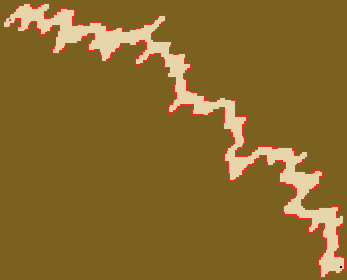
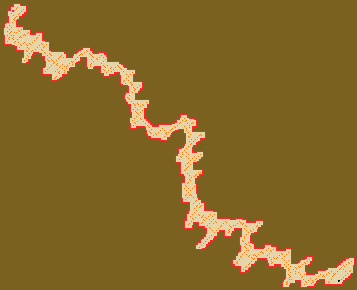
feat: add mob packs to the grid

Changed region(s): [[0.0, 0.0, 1.0, 1.0]]

diff --git a/src/area_gen/mod.rs b/src/area_gen/mod.rs
@@ -6,11 +6,14 @@ use rand_chacha::ChaCha8Rng;
 // Image creation
 use image::ImageBuffer;
 
+use self::maps::MobPack;
+
 mod maps;
 
 type Grid = Vec<Vec<Tile>>;
 
 const TILE_SIZE: i32 = 60;
+// const MOB_SIZE: i32 = 20;
 
 pub struct AreaGenerationOutput {
     pub width: u32,
@@ -19,12 +22,17 @@ pub struct AreaGenerationOutput {
     pub walkable_y: Vec<u32>,
     pub oob_polygons: Vec<Shape>, // bool is true when outer oob shape, false when inner
     pub player_spawn_position: (i32, i32),
+    // pub ennemies: Vec<enemy>,
 }
 
 pub struct Shape {
     pub points: Vec<(f32, f32)>,
     pub inner_if_true: bool,
 }
+
+// pub struct Enemy {
+//     pub point: (f32, f32),
+// }
 
 pub fn generate_area(map_index: usize) -> AreaGenerationOutput {
     // Create random generator from seed
@@ -38,18 +46,11 @@ pub fn generate_area(map_index: usize) -> AreaGenerationOutput {
     //               Generate maps                          //
     //------------------------------------------------------//
 
-    //------------------------------------------------------//
-    //               Add mobs                               //
-    //------------------------------------------------------//
-
-    //  Store all rectange centers
-    // depending on a tile rectangle size threshold , place x mob pack on the rectangle.
-
     // Pick a map
     let map = maps.remove(map_index);
     let map_name = map.name.clone();
     // Generate map grid
-    let (mut grid, player_spawn_position) = generate_map(seed, map);
+    let (mut grid, player_spawn_position, nb_packs) = generate_map(seed, map);
 
     //------------------------------------------------------//
     //               Find oob polygons                      //
@@ -70,11 +71,12 @@ pub fn generate_area(map_index: usize) -> AreaGenerationOutput {
         }
     }
     println!(
-        "----------------------------\nSeed : {} \n    Biome : {}\n    Size  : {} x {} tiles",
+        "----------------------------\nSeed : {} \n    Biome : {}\n    Size  : {} x {} tiles\n    Packs : {}",
         seed,
         map_name,
         grid.len(),
-        grid[0].len()
+        grid[0].len(),
+        nb_packs
     );
     AreaGenerationOutput {
         oob_polygons,
@@ -265,7 +267,7 @@ fn find_oob_polygone(
     px_polygone
 }
 
-fn generate_map(seed: u64, map: Map) -> (Grid, (i32, i32)) {
+fn generate_map(seed: u64, map: Map) -> (Grid, (i32, i32), i32) {
     // The rng instance is created from the seed
     let mut rng: ChaCha8Rng = ChaCha8Rng::seed_from_u64(seed);
 
@@ -277,12 +279,14 @@ fn generate_map(seed: u64, map: Map) -> (Grid, (i32, i32)) {
     // genrate walkable paths based on a random selection of possible biomes
     let mut center = map.generation_init_center;
     let map_start = center;
-
+    let mut tmp_packs;
+    let mut nb_packs = 0;
+    // Add
     for i in 0..map.biomes.len() {
-        center =
+        (center, tmp_packs) =
             generate_walkable_layout(&mut grid, &map.biomes[i], &mut rng, oob_tiletype, center);
+        nb_packs += tmp_packs;
     }
-
     // remove small clusters of oob tiles
     remove_small_cluster(&mut grid, oob_tiletype, 4, false, true);
     remove_small_cluster(&mut grid, oob_tiletype, 4, true, false);
@@ -313,6 +317,7 @@ fn generate_map(seed: u64, map: Map) -> (Grid, (i32, i32)) {
             (start_after_resize.0 * TILE_SIZE) - (TILE_SIZE / 2),
             (start_after_resize.1 * TILE_SIZE) - (TILE_SIZE / 2),
         ),
+        nb_packs,
     )
 }
 
@@ -468,7 +473,7 @@ fn generate_walkable_layout(
     rng: &mut ChaCha8Rng,
     oob_tiletype: TileType,
     start_center: (i32, i32),
-) -> (i32, i32) {
+) -> ((i32, i32), i32) {
     draw_rectangle(
         grid,
         TileType::Floor,
@@ -490,6 +495,7 @@ fn generate_walkable_layout(
         true,
     );
 
+    let mut nb_packs = 0;
     let mut center: (i32, i32) = start_center;
     for _ in 0..rng.gen_range(
         biome.rng_range_number_of_direction_changes.0
@@ -523,9 +529,13 @@ fn generate_walkable_layout(
                 center,
                 true,
             );
+            // Add mob pack at the center of the square
+
+            grid[center.0 as usize][center.1 as usize].mob_pack = Some(MobPack {});
+            nb_packs += 1;
         }
     }
-    center
+    (center, nb_packs)
 }
 
 fn find_point_on_edge(
@@ -590,33 +600,6 @@ fn draw_rectangle(
         }
     }
 }
-// input taille, coordonees du centre
-
-// fn draw_circle(
-//     grid: &mut Grid,
-//     tiletype: TileType,
-//     inbound: bool,
-//     center: (f32, f32),
-//     radius: f32,
-// ) {
-//     let width = grid.len();
-//     let height = grid[0].len();
-
-//     // println!("Maps is {} wide and {} tall ", center_x, center_y);
-//     for x in 0..width {
-//         for y in 0..height {
-//             let dx = f32::abs(x as f32 - center.0);
-//             let dy = f32::abs(y as f32 - center.1);
-//             if dx * dx + dy * dy <= radius * radius {
-//                 if inbound {
-//                     add_tile(grid, x, y, tiletype)
-//                 }
-//             } else if !inbound {
-//                 add_tile(grid, x, y, tiletype)
-//             }
-//         }
-//     }
-// }
 
 fn add_tile(grid: &mut Grid, x: usize, y: usize, tile_type: TileType, walkable: bool) {
     if x < grid.len() && y < grid.len() {
@@ -634,6 +617,7 @@ fn init_grid(height: i32, width: i32, oob_tiletype: TileType) -> Grid {
                 tile_type: oob_tiletype,
                 scanned: false,
                 walkable: false,
+                mob_pack: None,
             })
         }
         grid.push(row)
@@ -656,6 +640,12 @@ fn render_grid(grid: &Grid, file_name: String, show_outline: bool) {
                     i.try_into().unwrap(),
                     j.try_into().unwrap(),
                     image::Rgb([252u8, 40u8, 40u8]),
+                )
+            } else if y.mob_pack.is_some() {
+                img.put_pixel(
+                    i.try_into().unwrap(),
+                    j.try_into().unwrap(),
+                    image::Rgb([252u8, 119u8, 3u8]),
                 )
             } else {
                 img.put_pixel(

diff --git a/src/area_gen/maps/mod.rs b/src/area_gen/maps/mod.rs
@@ -19,12 +19,13 @@ pub enum TileType {
     Forest,
     Angle,
 }
+pub struct MobPack {}
 
-#[derive(PartialEq, Eq)]
 pub struct Tile {
     pub tile_type: TileType,
     pub scanned: bool,
     pub walkable: bool,
+    pub mob_pack: Option<MobPack>,
 }
 
 #[derive(Clone)]
